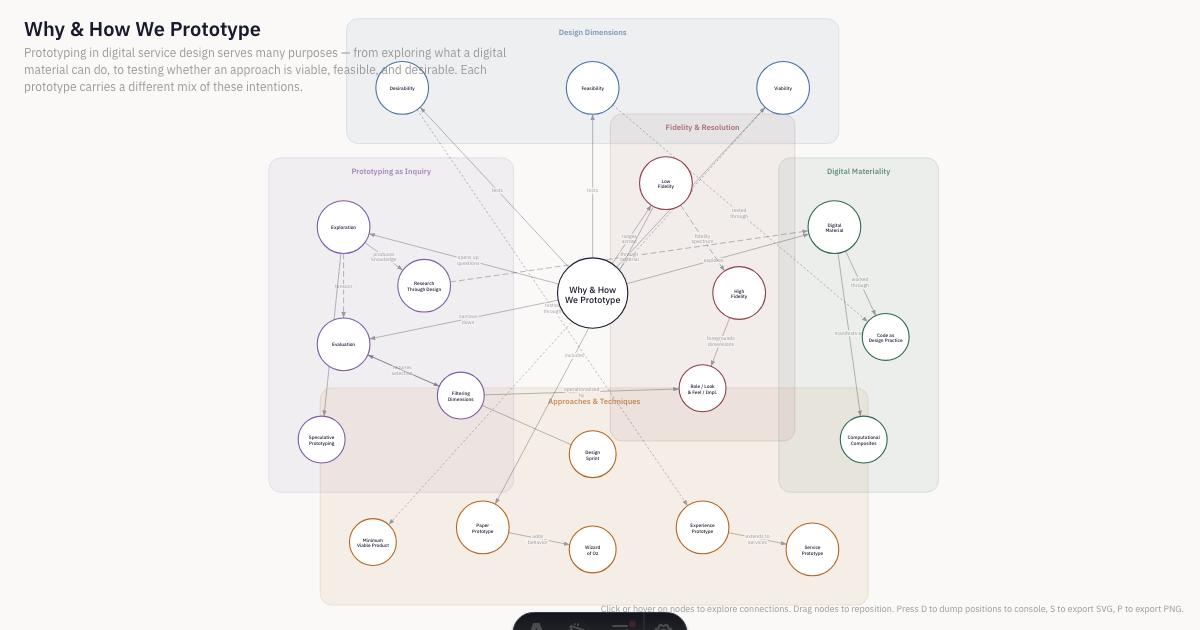
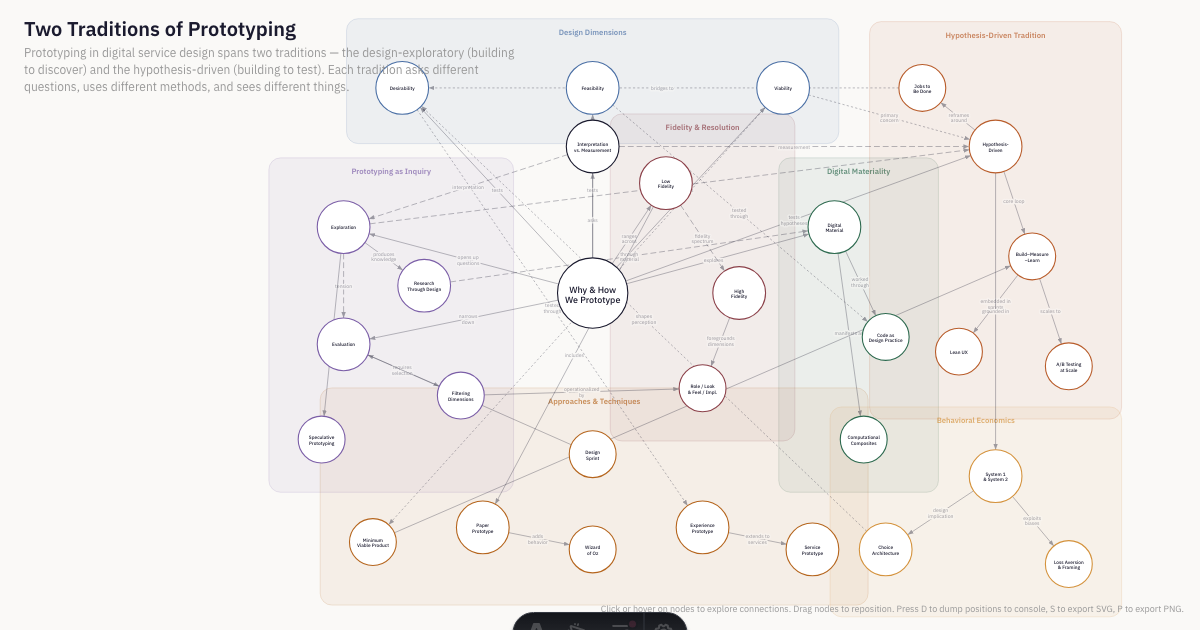
docs: Add README and regenerate OG image for new graph

diff --git a/README.md b/README.md
@@ -1,0 +1,76 @@
+# Prototypes and Hypotheses
+
+Interactive concept map exploring the two traditions of prototyping in digital service design — the design-exploratory (building to discover) and the hypothesis-driven (building to test).
+
+Built with Astro 5 + React 19, deployed to Vercel.
+
+**Live**: https://prototypes-and-hypotheses.vercel.app
+
+## Development
+
+```bash
+npm install          # Install dependencies (first time only)
+npm run dev          # Start dev server at localhost:4321
+npm run build        # Production build
+npm run preview      # Preview production build locally
+```
+
+## Editing the Graph
+
+All content lives in a single file: `src/data/graph.json`. No code changes needed.
+
+The JSON has 5 sections:
+
+| Section | Purpose |
+|---------|---------|
+| `meta` | Title, subtitle, interaction hint |
+| `sources` | Bibliography — enables clickable citation links |
+| `clusters` | Groupings with labels and colors |
+| `nodes` | Concepts — position, cluster, description, size |
+| `edges` | Connections between nodes — label, style |
+
+See the [Graph Template Guide](https://github.com/movito/research-method-matrix/blob/main/docs/GRAPH-TEMPLATE-GUIDE.md) for the full field reference.
+
+### Interaction
+
+- **Pan**: Click-drag on empty canvas
+- **Zoom**: Scroll wheel
+- **Drag nodes**: Click-drag on a node to reposition
+- **Hover**: Highlights node + connected edges
+- **Click node**: Shows detail panel with description
+- **Keyboard**: D = dump positions, S = export SVG, P = export PNG, Escape = deselect
+
+## Regenerating the OG Image
+
+After changing `graph.json`, regenerate the social sharing image:
+
+```bash
+npm run dev                      # Start dev server
+node scripts/capture-og.mjs     # Captures 1200x630 screenshot → public/og-image.png
+```
+
+Requires Playwright (`npx playwright install chromium` if not already installed).
+
+**Note**: If you regenerated the OG image in place, git may not detect a change (same filename, same path). Force-stage it:
+
+```bash
+git add -f public/og-image.png
+```
+
+## Deploying
+
+Push to `main` — Vercel auto-deploys.
+
+```bash
+git add -A
+git commit -m "description of changes"
+git push origin main
+```
+
+## Stack
+
+- **Astro 5** (static output)
+- **React 19** via `@astrojs/react`
+- **@astrojs/vercel** adapter
+- **Vanilla CSS** with custom properties
+- **IBM Plex Sans** (self-hosted woff2)
